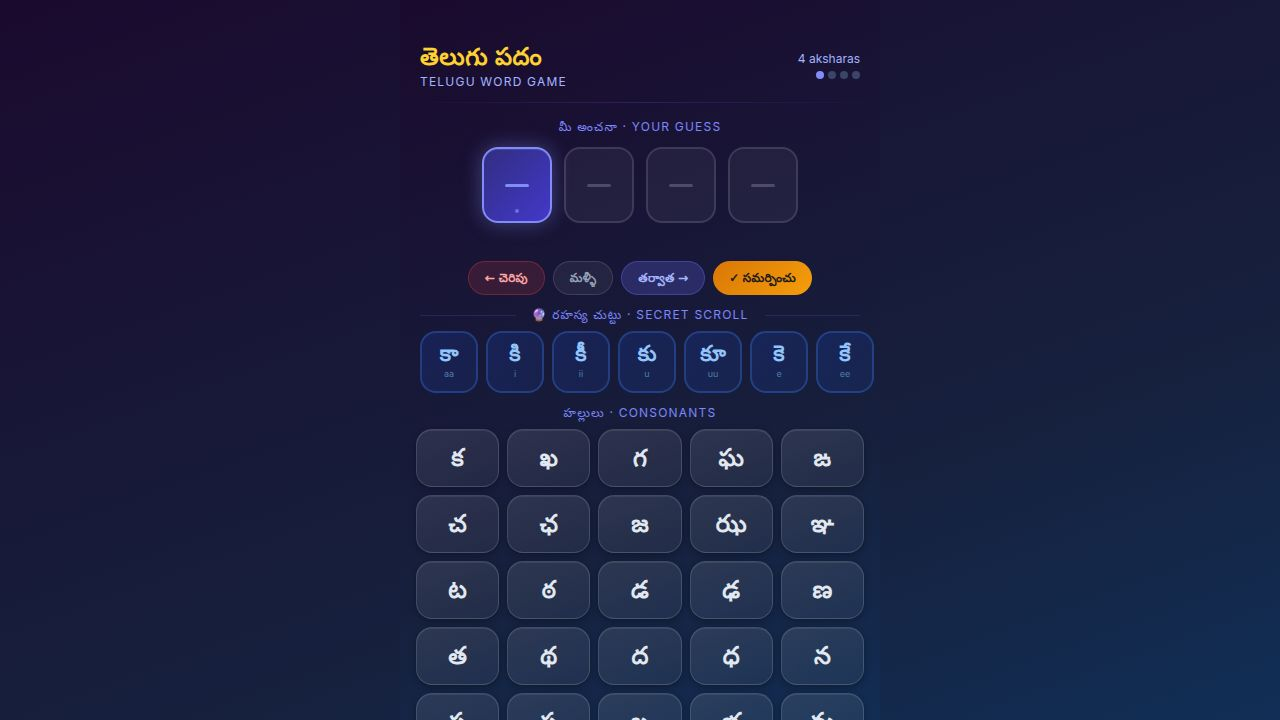
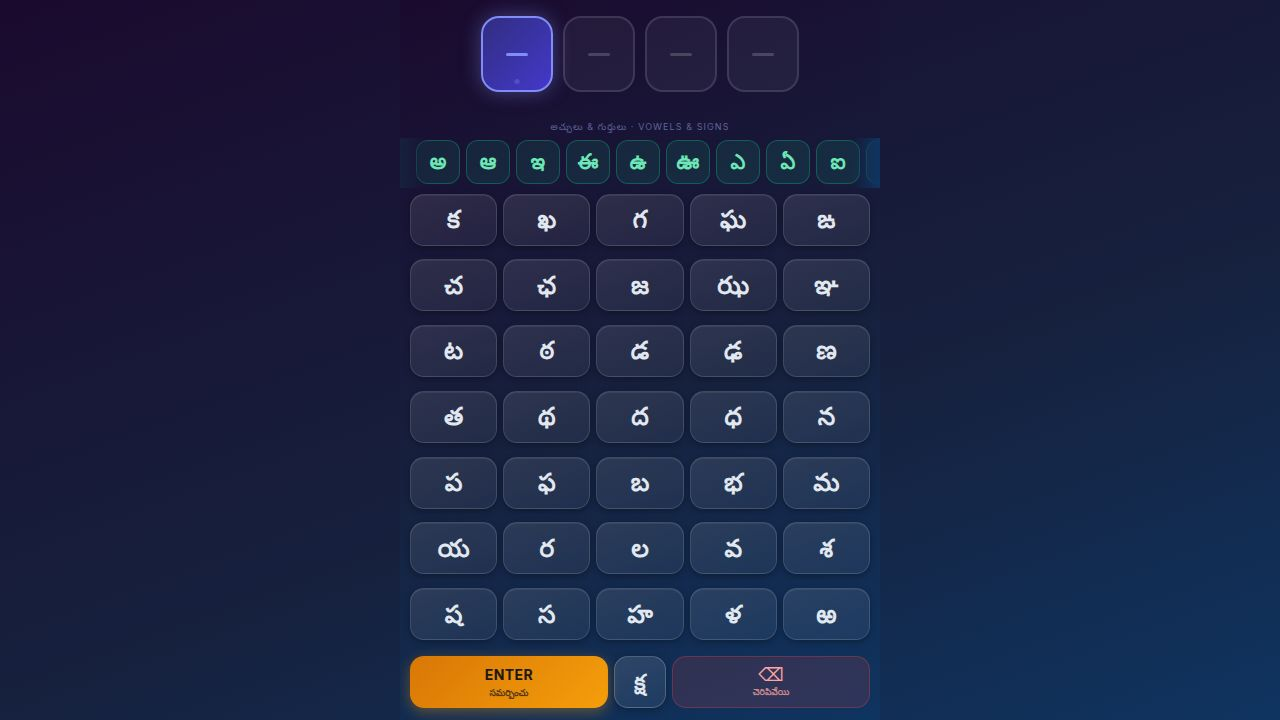
Add Anusvara and update vowel sign order on the modifier shelf
Update MODIFIER_SHELF constant with traditional phonetic ordering including Anusvara (ం), and implement specific handling logic for Anusvara within the `handleModifier` function to ensure it attaches to the active box without advancing the cursor.

Replit-Commit-Author: Agent
Replit-Commit-Session-Id: 563619b2-7849-4440-bc6f-fc7147dc7b69
Replit-Commit-Checkpoint-Type: full_checkpoint
Replit-Commit-Event-Id: a73b889c-7ca2-4ad6-bbec-e099c9cb689c
Replit-Commit-Screenshot-Url: https://storage.googleapis.com/screenshot-production-us-central1/d7fe6b91-bd95-4672-bbe2-e1d2dfcf834f/563619b2-7849-4440-bc6f-fc7147dc7b69/XdJG64N
Replit-Helium-Checkpoint-Created: true

Changed region(s): [[0.3125, 0.1528, 0.6875, 1.0], [0.3125, 0.0, 0.4375, 0.1528], [0.5938, 0.0611, 0.6875, 0.1222]]

diff --git a/artifacts/telugu-game/src/pages/Game.tsx b/artifacts/telugu-game/src/pages/Game.tsx
@@ -3,18 +3,24 @@ import { useState, useRef } from "react";
 // ─── Telugu data ──────────────────────────────────────────────────────────────
 
 const HALANT = "్";
+const ANUSVARA = "ం";
 
 // Independent vowels (standalone — fill box directly)
 const INDEPENDENT_VOWELS = new Set([
   "అ", "ఆ", "ఇ", "ఈ", "ఉ", "ఊ", "ఎ", "ఏ", "ఐ", "ఒ", "ఓ", "ఔ",
 ]);
 
-// All modifier shelf items in exact order
+// Traditional phonetic order:
+// Independent Vowels → Anusvara → Dependent Signs → Halant
 const MODIFIER_SHELF = [
-  "అ", "ఆ", "ఇ", "ఈ", "ఉ", "ఊ",
-  "ఎ", "ఏ", "ఐ", "ఒ", "ఓ", "ఔ",
-  "ా", "ి", "ీ", "ు", "ూ", "ృ",
-  "ె", "ే", "ై", "ొ", "ో", "ౌ", "్",
+  // Independent vowels
+  "అ", "ఆ", "ఇ", "ఈ", "ఉ", "ఊ", "ఎ", "ఏ", "ఐ", "ఒ", "ఓ", "ఔ",
+  // The Bridge
+  ANUSVARA,
+  // Dependent vowel signs
+  "ా", "ి", "ీ", "ు", "ూ", "ె", "ే", "ై", "ొ", "ో", "ౌ",
+  // The Glue
+  HALANT,
 ];
 
 // 7 rows × 5 columns
@@ -109,13 +115,44 @@ export default function Game() {
 
   // ── Modifier shelf ─────────────────────────────────────────────────────────
   function handleModifier(char: string) {
+    // ── Anusvara: universal modifier — attaches to active box, no cursor advance
+    if (char === ANUSVARA) {
+      // Case 1: builder has in-progress consonants → commit them + ం, stay on same box
+      if (builder.consonants.length > 0) {
+        const akshara = finalizeBuilder({ ...builder, pendingHalant: false }) + ANUSVARA;
+        setBoxes((prev) => { const next = [...prev]; next[activeBox] = akshara; return next; });
+        setBuilder(emptyBuilder());
+        // Do NOT advance activeBox
+        return;
+      }
+      // Case 2: active box already has a committed akshara → append ం to it, stay
+      if (boxes[activeBox]) {
+        setBoxes((prev) => {
+          const next = [...prev];
+          next[activeBox] = next[activeBox] + ANUSVARA;
+          return next;
+        });
+        return;
+      }
+      // Case 3: active box empty, go back and append ం to the previous box
+      if (activeBox > 0) {
+        setBoxes((prev) => {
+          const next = [...prev];
+          next[activeBox - 1] = next[activeBox - 1] + ANUSVARA;
+          return next;
+        });
+        return;
+      }
+      toast("Nothing to attach ం to yet!");
+      return;
+    }
+
     if (activeBox >= WORD_LENGTH) { toast("All boxes filled!"); return; }
 
     if (INDEPENDENT_VOWELS.has(char)) {
       // Independent vowel — fills box directly (finalize any pending builder first)
       if (builder.consonants.length > 0) {
         commitBuilder(builder, activeBox);
-        // Then set this vowel in next box — but let user press it again
         toast(`Committed current akshara — tap ${char} again to place it`);
         return;
       }
@@ -129,7 +166,7 @@ export default function Game() {
       return;
     }
 
-    // Matra / dependent vowel sign
+    // Dependent vowel sign (matra)
     if (builder.consonants.length === 0) { toast("Pick a consonant first!"); return; }
     commitBuilder({ ...builder, vowelSign: char, pendingHalant: false }, activeBox);
   }